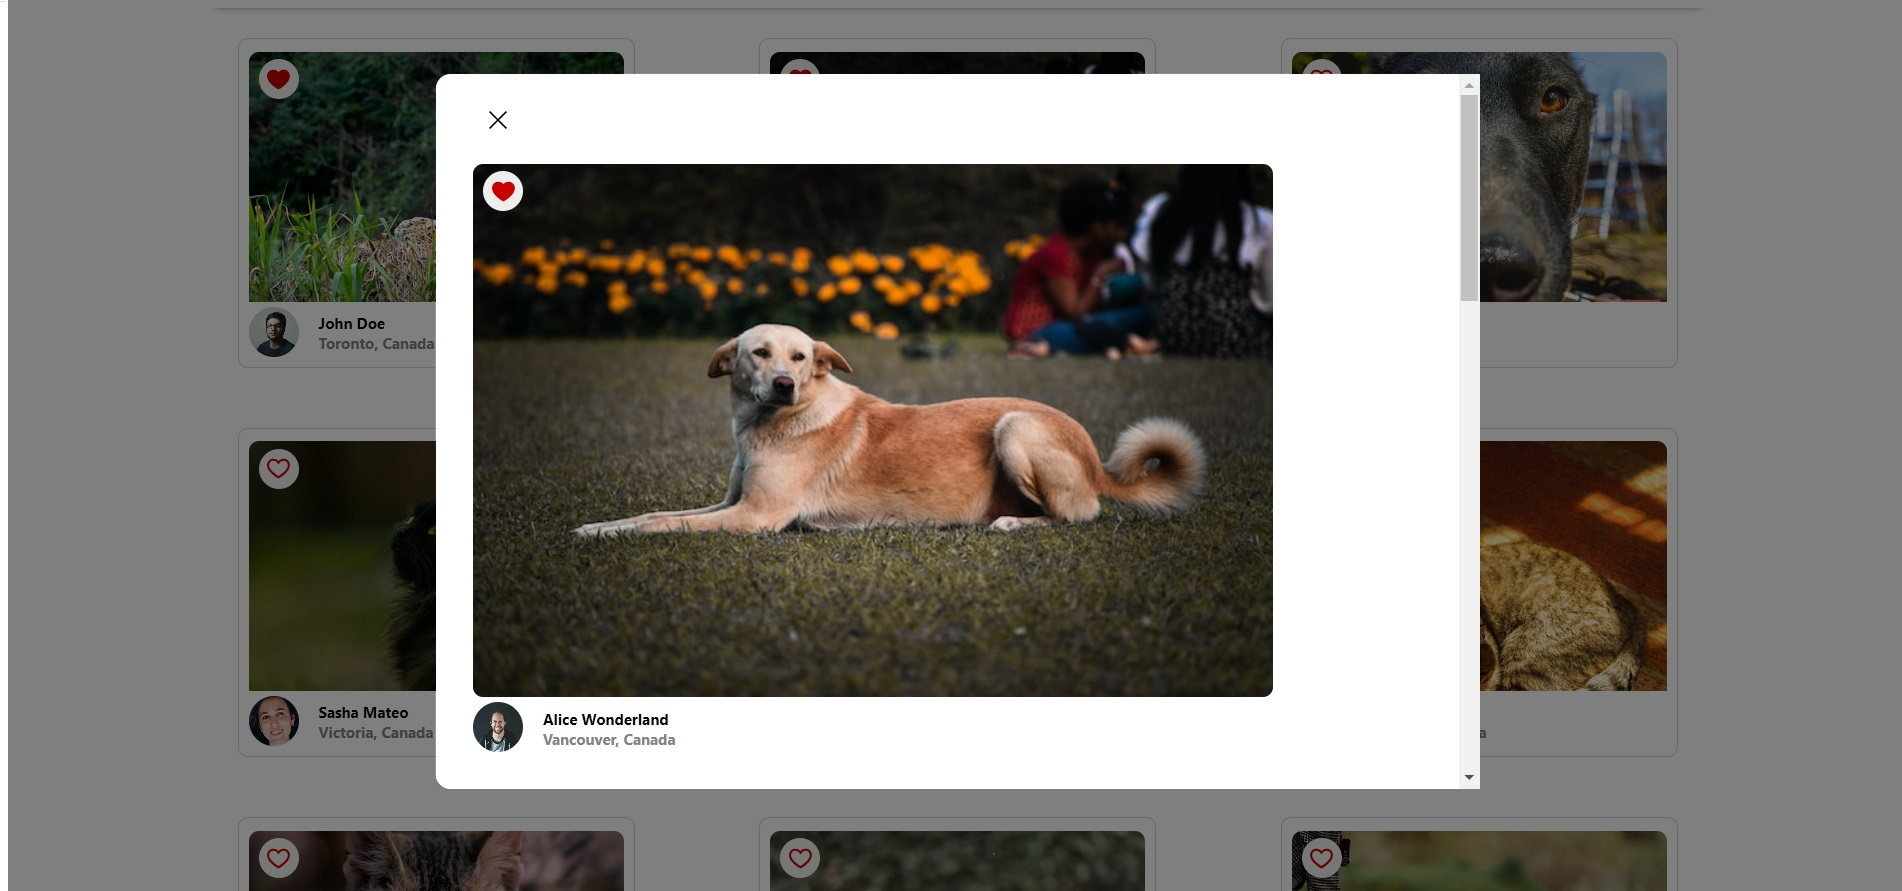
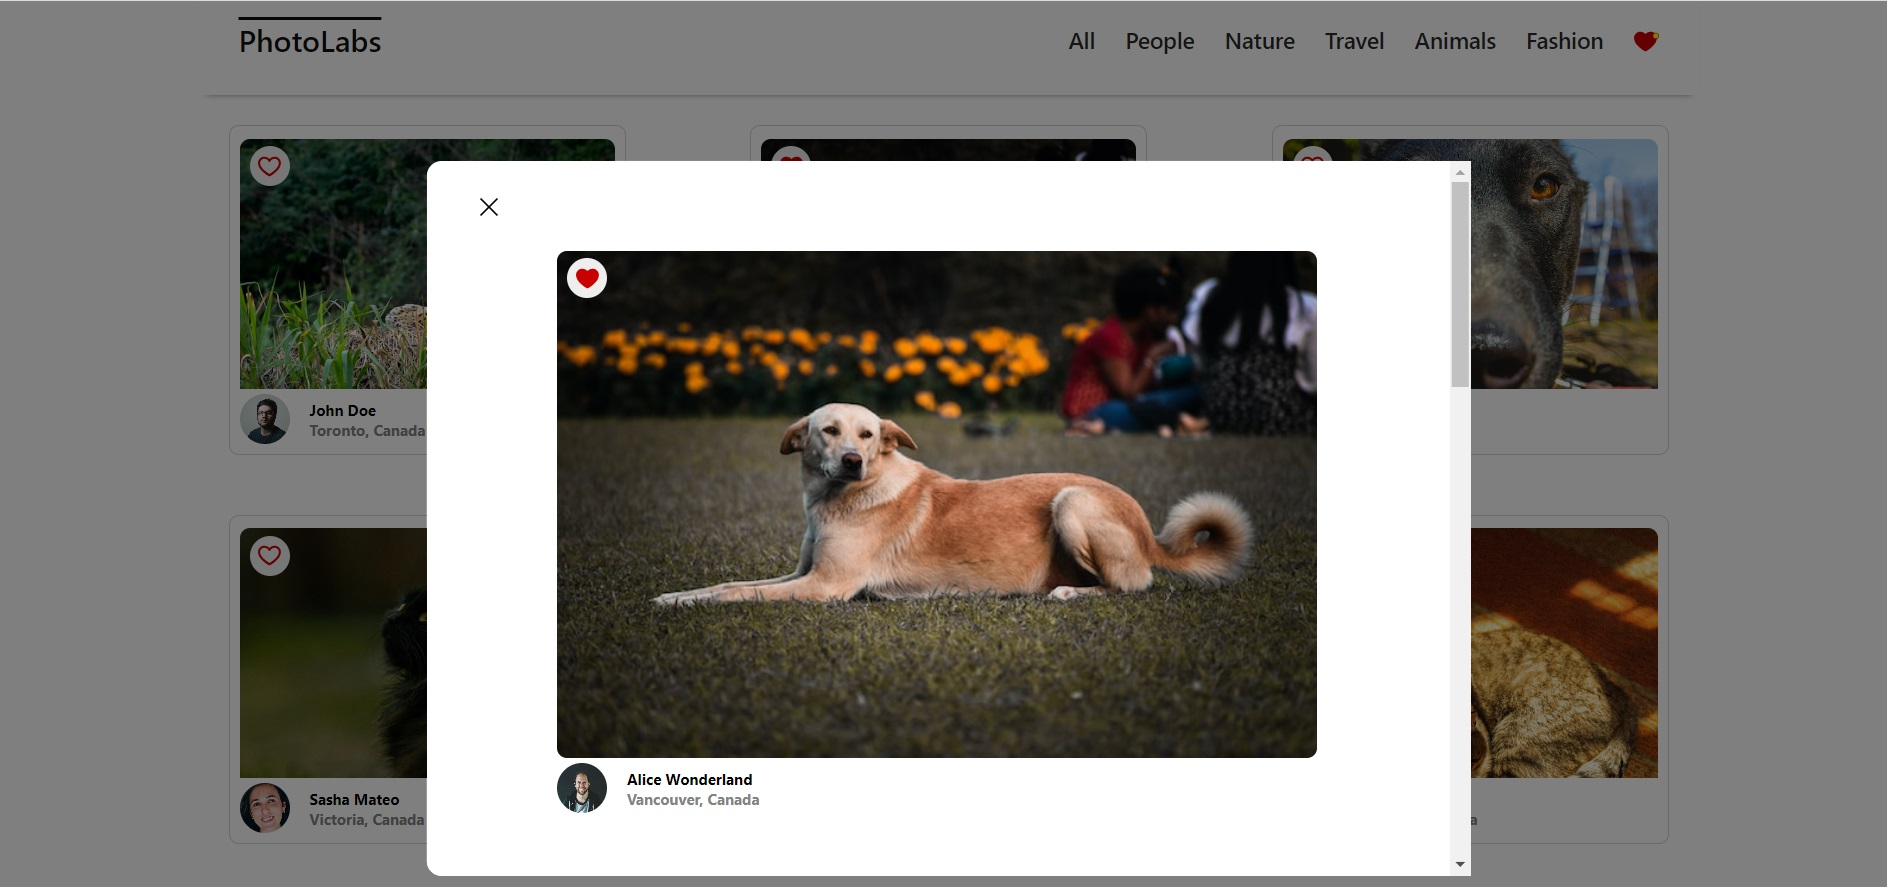
adjust css in modal view and update screenshot

diff --git a/frontend/src/styles/PhotoDetailsModal.scss b/frontend/src/styles/PhotoDetailsModal.scss
@@ -25,7 +25,9 @@
 }
 
 .photo-details-modal__images-container {
-  margin: 0px;
+  display: flex;
+  flex-direction: column;
+  align-items: center;
 }
 
 .photo-details-modal__image-container {
@@ -47,7 +49,6 @@
 
 .photo-details-modal__image {
   max-width: 95%;
-  // max-height: 100vh;
   border-radius: 8px;
 }
 
@@ -70,7 +71,8 @@
   font-weight: 500;
   color: #1e1e1e;
   margin-top: 24px;
-  margin-bottom: 24px;
-  margin-left: 24px;
+  margin-bottom: 10px;
+  margin-left: -20px;
+  margin-top: 70px;
   width: 90%;
 }
